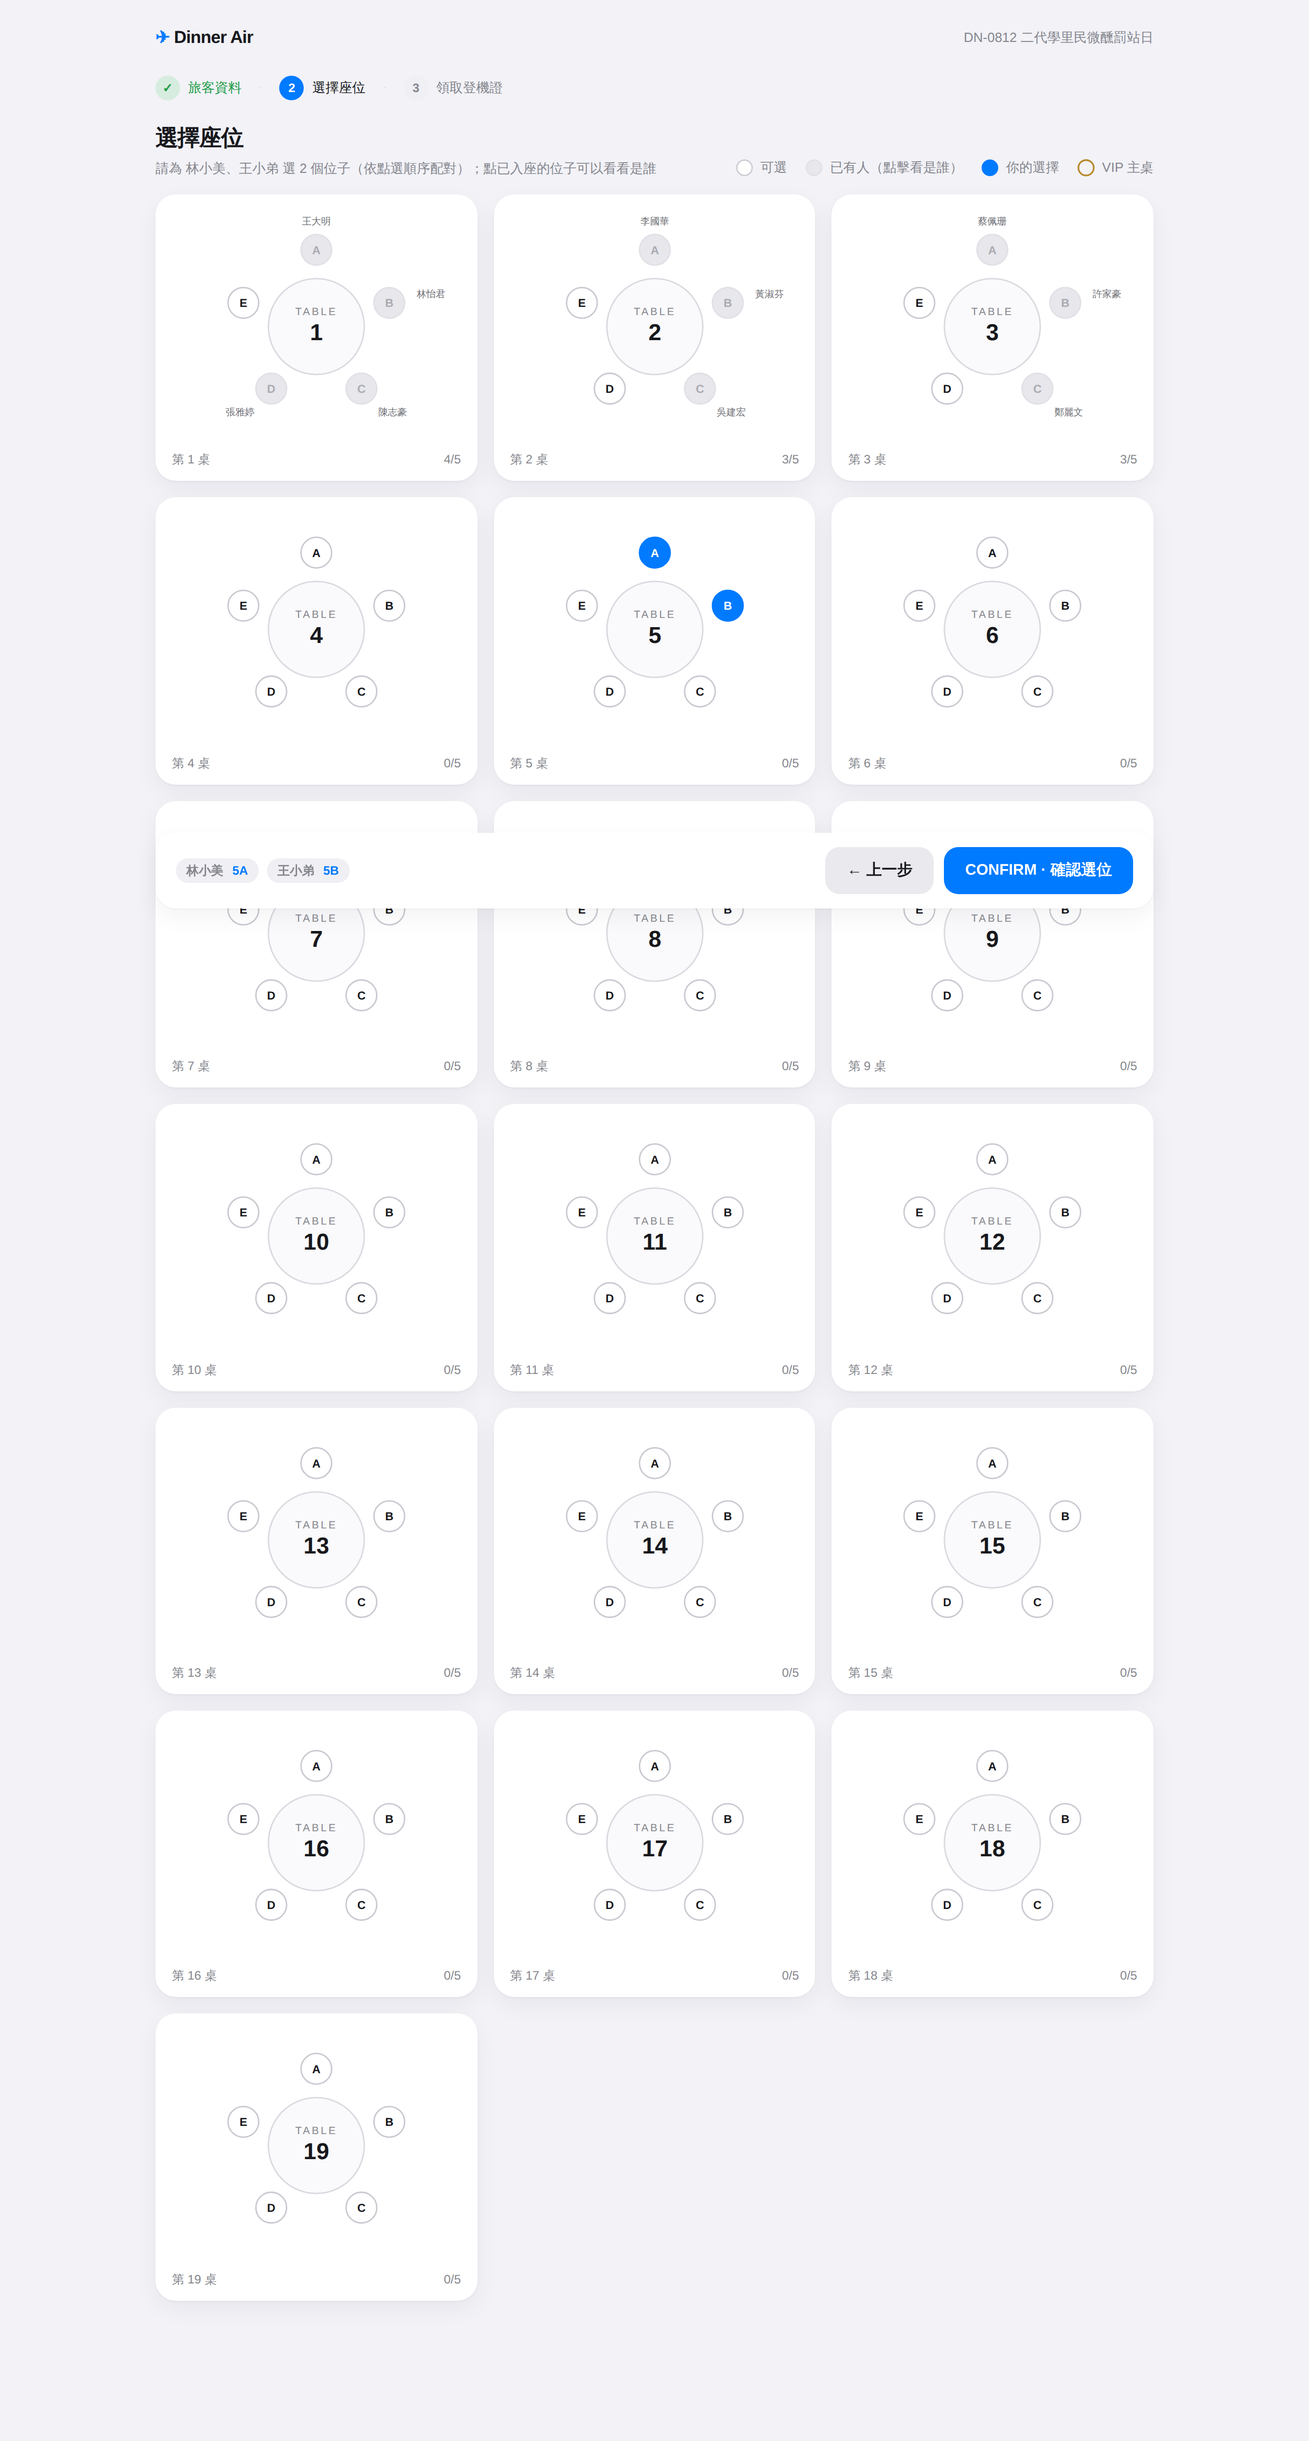
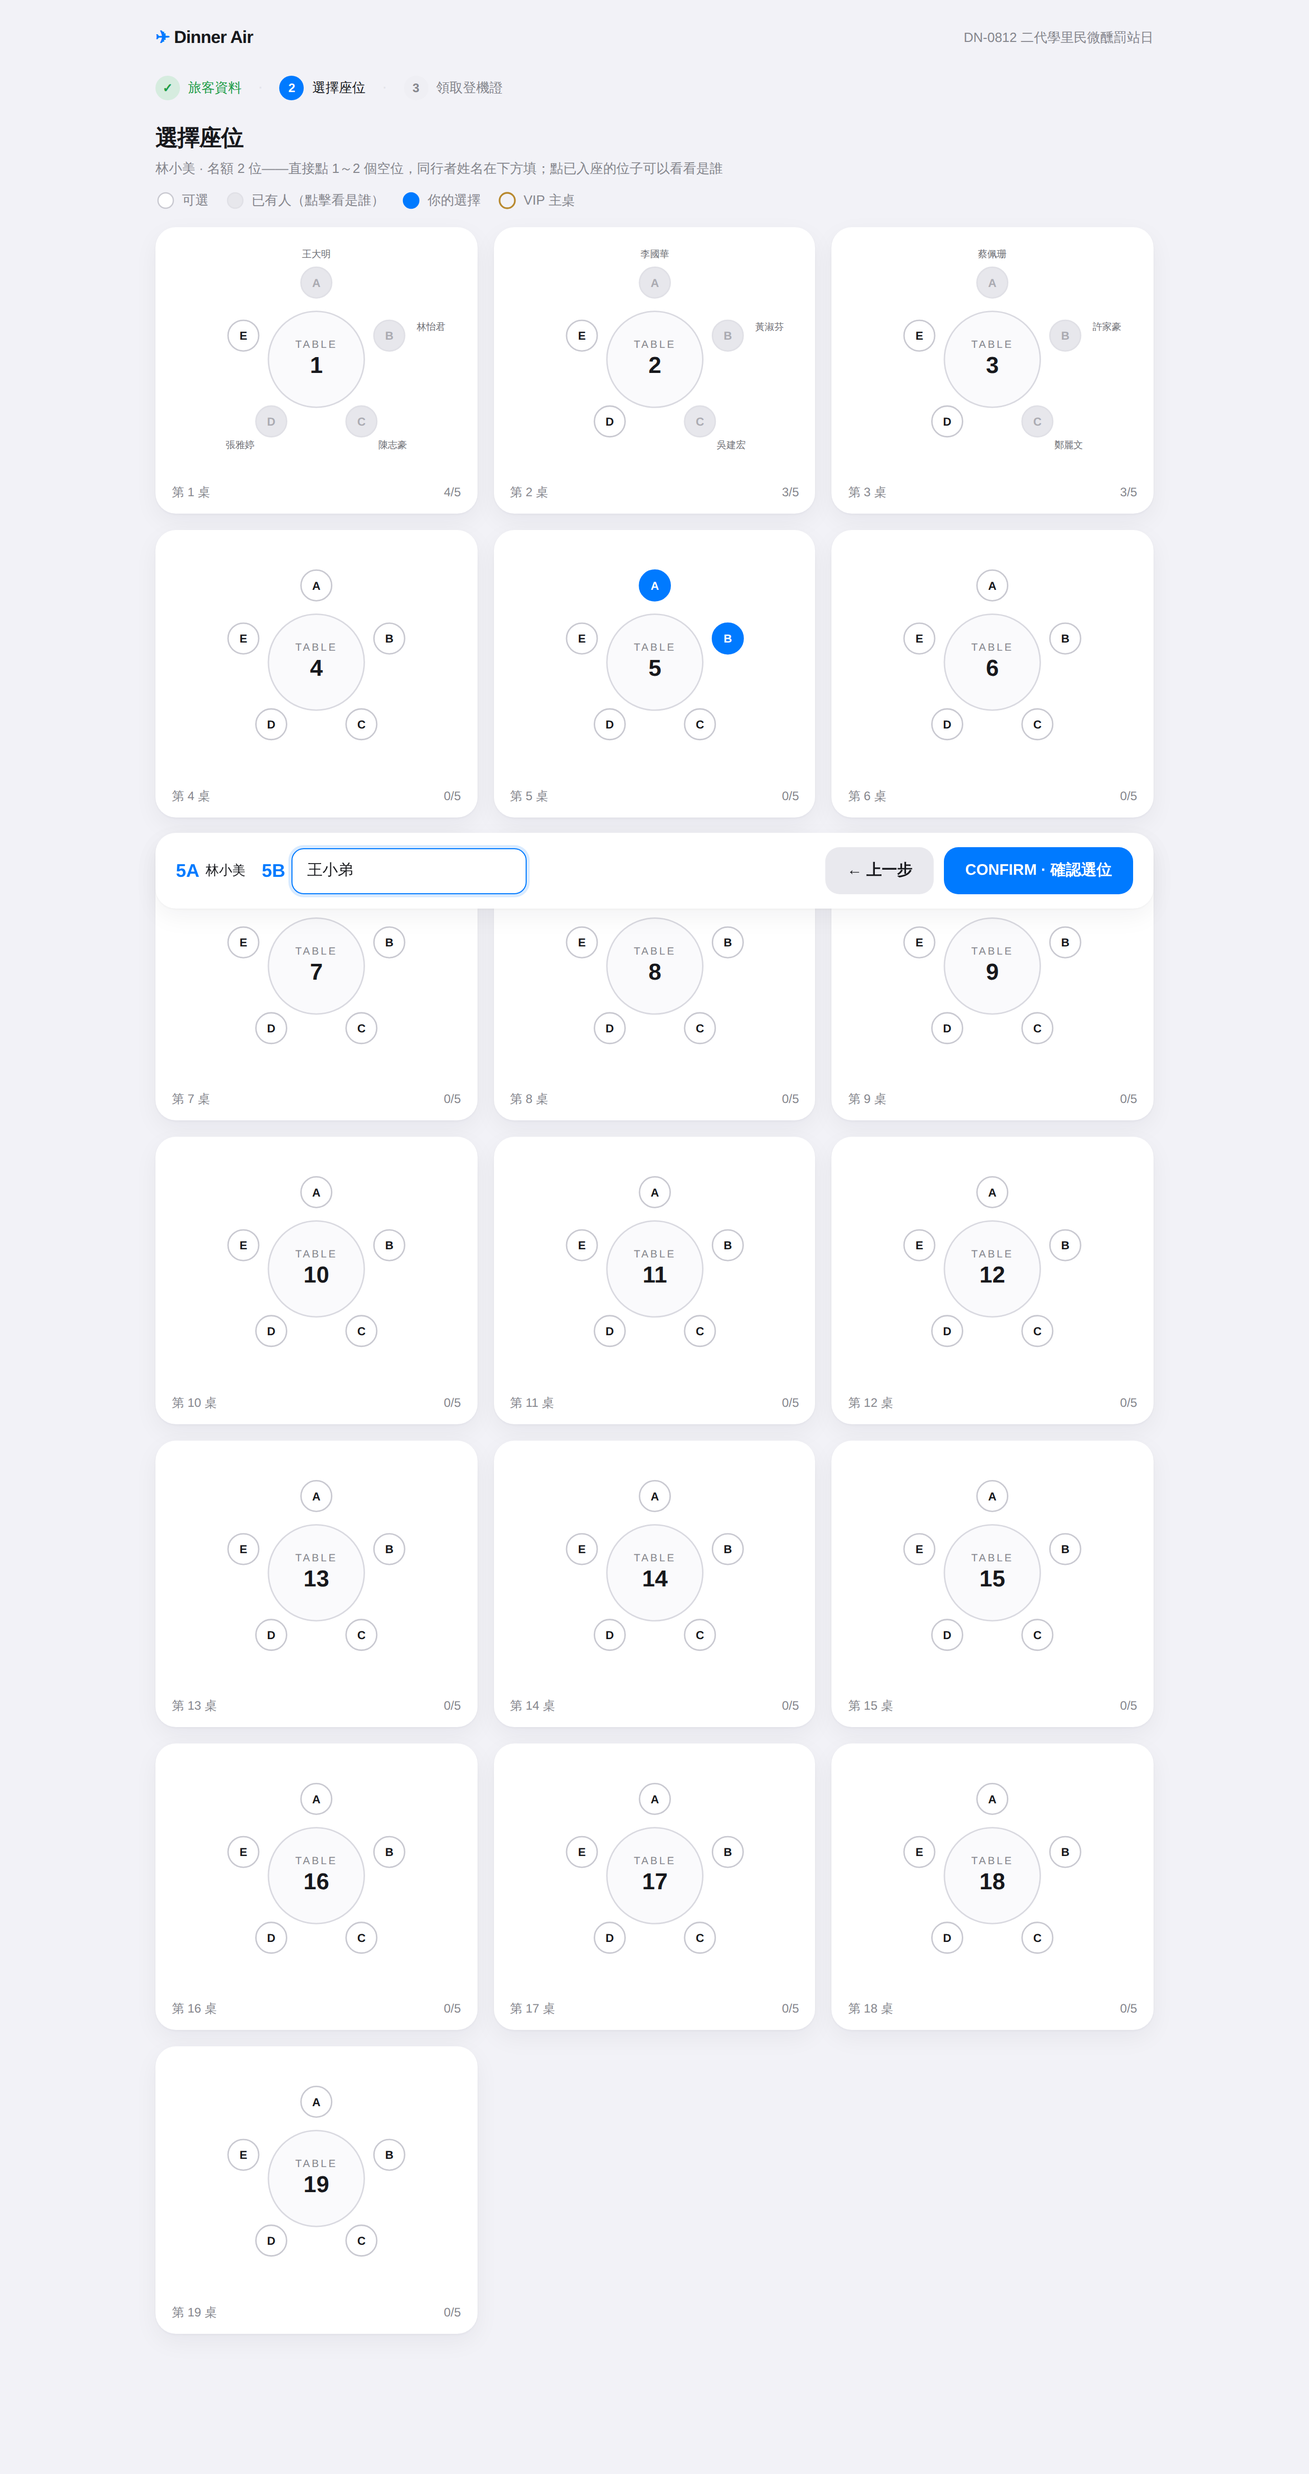
選位頁直接多選：輸入名字後即可一次選滿名額
報名流程再簡化——表單不再問人數與同行者：

- 表單只填姓名/產業/備註，接龍名額多少、選位頁就能直接點幾個位子
  （林小美名額 2 → 直接點 5A、5B）
- 同行者姓名改在選位確認列 inline 填寫，未填完不能送出
- 候補路徑維持單人；名額上限與座位衝突照樣在寫入時二次驗證

Claude-Session: https://claude.ai/code/session_018BfeYKkjSwJMM5e7U3pUqP

diff --git a/src/app/flight/[code]/seat/page.tsx b/src/app/flight/[code]/seat/page.tsx
@@ -11,7 +11,7 @@ import { addGroup, assignSeat, byToken, flightByCode, takenSeats, useDB } from "
 
 /**
  * 選位頁。兩種進場方式：
- * 1. 報名流程第二步——一次為整組人選位（一人一個座位，依點選順序配對）
+ * 1. 報名流程第二步——可直接選 1～名額上限個位子；第 2 位起的同行者姓名在確認列填
  * 2. 已有登機證但還沒座位的人補選位：/flight/XX/seat?pass=<token>
  */
 export default function SeatPage() {
@@ -25,6 +25,8 @@ export default function SeatPage() {
   const pending = usePendingSignup(reseatToken ? undefined : flight?.code);
 
   const [selected, setSelected] = useState<string[]>([]);
+  /** 第 i+2 個座位的同行者姓名（index 0 = 第二個座位） */
+  const [companionNames, setCompanionNames] = useState<string[]>([]);
   const [error, setError] = useState<string | null>(null);
   // 點擊已入座的座位 → 顯示是誰（姓名＋產業）
   const [peek, setPeek] = useState<{ code: string; name: string; industry?: string } | null>(null);
@@ -70,29 +72,43 @@ export default function SeatPage() {
   }
 
   const taken = takenSeats(db, flight.id);
-  const people = reseatAttendee
-    ? [{ name: reseatAttendee.name, industry: reseatAttendee.industry ?? "" }]
-    : (pending?.people ?? []);
-  const need = people.length;
+  const leadName = reseatAttendee?.name ?? pending?.name ?? "";
+  const maxSeats = reseatAttendee ? 1 : Math.max(1, pending?.maxSeats ?? 1);
 
   const toggleSeat = (seatCode: string) => {
     setError(null);
     setSelected((prev) => {
       if (prev.includes(seatCode)) return prev.filter((s) => s !== seatCode);
-      if (prev.length < need) return [...prev, seatCode];
+      if (prev.length < maxSeats) return [...prev, seatCode];
       // 已選滿：換掉最後一個
-      return [...prev.slice(0, need - 1), seatCode];
+      return [...prev.slice(0, maxSeats - 1), seatCode];
     });
   };
 
+  const setCompanionName = (i: number, value: string) => {
+    setCompanionNames((prev) => {
+      const next = [...prev];
+      while (next.length <= i) next.push("");
+      next[i] = value;
+      return next;
+    });
+  };
+
+  const companionsOk = selected.slice(1).every((_, i) => (companionNames[i] ?? "").trim());
+  const canConfirm = selected.length >= 1 && companionsOk;
+
   const confirm = () => {
-    if (selected.length !== need) return;
+    if (!canConfirm) return;
 
     if (pending) {
+      const people = [
+        { name: pending.name, industry: pending.industry },
+        ...selected.slice(1).map((_, i) => ({ name: companionNames[i].trim(), industry: "" })),
+      ];
       const res = addGroup({
         flightId: flight.id,
         inviteId: pending.inviteId,
-        people: pending.people,
+        people,
         note: pending.note,
         seats: selected,
       });
@@ -103,7 +119,7 @@ export default function SeatPage() {
         } else if (res.reason === "quota-exceeded") {
           setError("接龍名額不足（可能剛被使用），請回上一步確認。");
         } else if (res.reason === "not-enough-seats") {
-          setError("剩餘座位不足，請回上一步調整人數。");
+          setError("剩餘座位不足，請減少選位數。");
         } else {
           setError("報名失敗，請回上一步重新開始。");
         }
@@ -134,9 +150,9 @@ export default function SeatPage() {
         <div>
           <h1 className="text-[22px] font-bold tracking-tight">選擇座位</h1>
           <p className="text-sub mt-1 text-[13px]">
-            {need > 1
-              ? `請為 ${people.map((p) => p.name).join("、")} 選 ${need} 個位子（依點選順序配對）`
-              : `${people[0]?.name ?? ""} · 點空位入座`}
+            {maxSeats > 1
+              ? `${leadName} · 名額 ${maxSeats} 位——直接點 1～${maxSeats} 個空位，同行者姓名在下方填`
+              : `${leadName} · 點空位入座`}
             ；點已入座的位子可以看看是誰
           </p>
         </div>
@@ -167,23 +183,35 @@ export default function SeatPage() {
       {/* 底部確認列 */}
       <div className="sticky bottom-3 mt-6">
         <div className="card flex flex-wrap items-center justify-between gap-3 px-5 py-3.5">
-          {need > 1 ? (
-            <div className="flex flex-wrap items-center gap-2">
-              {people.map((p, i) => (
-                <span key={i} className="pill pill-dim text-[13px]">
-                  {p.name}
-                  <span className={`ml-1 font-bold ${selected[i] ? "text-accent" : "text-sub"}`}>
-                    {selected[i] ?? "—"}
-                  </span>
+          <div className="flex min-w-0 flex-wrap items-center gap-x-4 gap-y-2">
+            {selected.length === 0 ? (
+              <div className="flex items-baseline gap-2.5">
+                <span className="text-sub text-[13px] font-medium">座位</span>
+                <span className="text-sub text-[24px] font-extrabold">—</span>
+                {maxSeats > 1 && <span className="text-sub text-[12px]">可選 {maxSeats} 位</span>}
+              </div>
+            ) : (
+              selected.map((s, i) => (
+                <span key={s} className="flex items-center gap-1.5">
+                  <span className="text-accent text-[18px] font-extrabold tabular-nums">{s}</span>
+                  {i === 0 ? (
+                    <span className="text-[13px] font-medium">{leadName}</span>
+                  ) : (
+                    <input
+                      value={companionNames[i - 1] ?? ""}
+                      onChange={(e) => setCompanionName(i - 1, e.target.value)}
+                      placeholder="同行者姓名"
+                      maxLength={30}
+                      className="field-input w-28 px-2.5 py-1.5 text-[13px]"
+                    />
+                  )}
                 </span>
-              ))}
-            </div>
-          ) : (
-            <div className="flex items-baseline gap-2.5">
-              <span className="text-sub text-[13px] font-medium">座位</span>
-              <span className="text-accent text-[24px] font-extrabold tabular-nums">{selected[0] ?? "—"}</span>
-            </div>
-          )}
+              ))
+            )}
+            {selected.length > 0 && selected.length < maxSeats && (
+              <span className="text-sub text-[12px]">還可再選 {maxSeats - selected.length} 位</span>
+            )}
+          </div>
           <div className="flex items-center gap-2.5">
             <Link
               href={pending ? `/flight/${flight.code}/checkin` : `/pass/${reseatToken}`}
@@ -191,7 +219,7 @@ export default function SeatPage() {
             >
               ← 上一步
             </Link>
-            <button onClick={confirm} disabled={selected.length !== need} className="btn btn-primary">
+            <button onClick={confirm} disabled={!canConfirm} className="btn btn-primary">
               CONFIRM · 確認選位
             </button>
           </div>

diff --git a/src/app/flight/[code]/checkin/page.tsx b/src/app/flight/[code]/checkin/page.tsx
@@ -27,8 +27,6 @@ export default function CheckinPage() {
 
   const [name, setName] = useState("");
   const [industry, setIndustry] = useState("");
-  const [count, setCount] = useState(1);
-  const [companions, setCompanions] = useState<{ name: string; industry: string }[]>([]);
   const [note, setNote] = useState("");
   const [error, setError] = useState<string | null>(null);
   const [submitting, setSubmitting] = useState(false);
@@ -74,19 +72,8 @@ export default function CheckinPage() {
   const remaining = invite ? Math.max(0, invite.quota - used) : 0;
   const seatsLeft = Math.max(0, flightCapacity(flight) - confirmedCount);
 
-  // 可報人數上限：接龍模式看名額；開放模式一次最多 4 位
-  const maxParty = inviteMode ? Math.max(1, remaining) : Math.min(4, Math.max(1, isStandby ? 4 : seatsLeft));
-  const effCount = Math.min(count, maxParty);
-
-  const companionAt = (i: number) => companions[i] ?? { name: "", industry: "" };
-  const setCompanion = (i: number, patch: Partial<{ name: string; industry: string }>) => {
-    setCompanions((prev) => {
-      const next = [...prev];
-      while (next.length <= i) next.push({ name: "", industry: "" });
-      next[i] = { ...next[i], ...patch };
-      return next;
-    });
-  };
+  // 選位頁可選的座位數上限：接龍模式看名額；開放模式一次最多 4 位
+  const maxSeats = inviteMode ? Math.max(1, remaining) : Math.min(4, Math.max(1, seatsLeft));
 
   const submit = (e: React.FormEvent) => {
     e.preventDefault();
@@ -102,28 +89,18 @@ export default function CheckinPage() {
         setError("這筆接龍名額已全部使用。如需調整人數，請聯絡主辦人。");
         return;
       }
-      if (effCount > remaining) {
-        setError(`接龍名額只剩 ${remaining} 位，無法報 ${effCount} 位。`);
-        return;
-      }
-    }
-
-    const people = [
-      { name: name.trim(), industry: industry.trim() },
-      ...Array.from({ length: effCount - 1 }, (_, i) => ({
-        name: companionAt(i).name.trim(),
-        industry: companionAt(i).industry.trim(),
-      })),
-    ];
-    if (people.some((p) => !p.name)) {
-      setError("請填寫每一位同行者的姓名。");
-      return;
     }
 
     if (isStandby) {
-      // 已滿：整組建立候補，不經過選位
+      // 已滿：建立候補，不經過選位
       setSubmitting(true);
-      const res = addGroup({ flightId: flight.id, inviteId: invite?.id, people, note, seats: [] });
+      const res = addGroup({
+        flightId: flight.id,
+        inviteId: invite?.id,
+        people: [{ name: name.trim(), industry: industry.trim() }],
+        note,
+        seats: [],
+      });
       if (res.ok) router.push(`/pass/${res.attendees[0].passToken}?new=1`);
       else {
         setSubmitting(false);
@@ -132,7 +109,13 @@ export default function CheckinPage() {
       return;
     }
 
-    writePending(flight.code, { inviteId: invite?.id, people, note: note.trim() });
+    writePending(flight.code, {
+      inviteId: invite?.id,
+      name: name.trim(),
+      industry: industry.trim(),
+      note: note.trim(),
+      maxSeats,
+    });
     router.push(`/flight/${flight.code}/seat`);
   };
 
@@ -193,52 +176,6 @@ export default function CheckinPage() {
             />
           </label>
 
-          {(!inviteMode || (invite && remaining > 0)) && maxParty > 1 && (
-            <div>
-              <span className="text-sub mb-1.5 block text-[13px] font-medium">報名人數（含本人）</span>
-              <div className="flex flex-wrap gap-2">
-                {Array.from({ length: maxParty }, (_, i) => i + 1).map((n) => (
-                  <button
-                    key={n}
-                    type="button"
-                    onClick={() => setCount(n)}
-                    className={`min-w-14 rounded-xl px-4 py-2.5 text-center text-[14px] font-semibold transition ${
-                      effCount === n ? "bg-accent text-white" : "bg-inset text-ink hover:bg-[#e4e4ea]"
-                    }`}
-                  >
-                    {n} 位
-                  </button>
-                ))}
-              </div>
-            </div>
-          )}
-
-          {Array.from({ length: effCount - 1 }, (_, i) => (
-            <div key={i} className="grid grid-cols-2 gap-3">
-              <label className="block">
-                <span className="text-sub mb-1.5 block text-[13px] font-medium">同行者 {i + 1} 姓名 *</span>
-                <input
-                  value={companionAt(i).name}
-                  onChange={(e) => setCompanion(i, { name: e.target.value })}
-                  className="field-input"
-                  placeholder="同行者姓名"
-                  maxLength={30}
-                  required
-                />
-              </label>
-              <label className="block">
-                <span className="text-sub mb-1.5 block text-[13px] font-medium">產業</span>
-                <input
-                  value={companionAt(i).industry}
-                  onChange={(e) => setCompanion(i, { industry: e.target.value })}
-                  className="field-input"
-                  placeholder="產業（選填）"
-                  maxLength={20}
-                />
-              </label>
-            </div>
-          ))}
-
           <label className="block">
             <span className="text-sub mb-1.5 block text-[13px] font-medium">備註（忌口、過敏等）</span>
             <input
@@ -254,12 +191,13 @@ export default function CheckinPage() {
 
           <div className="mt-1 flex flex-col gap-2.5">
             <button type="submit" disabled={!name.trim() || submitting} className="btn btn-primary w-full text-[16px]">
-              {isStandby
-                ? "JOIN STANDBY · 加入候補"
-                : effCount > 1
-                  ? `NEXT · 為 ${effCount} 位選位 →`
-                  : "NEXT · 前往選位 →"}
+              {isStandby ? "JOIN STANDBY · 加入候補" : "NEXT · 前往選位 →"}
             </button>
+            {!isStandby && maxSeats > 1 && (!inviteMode || invite) && (
+              <p className="text-sub text-center text-[12px]">
+                下一頁可直接選 1～{maxSeats} 個位子，同行者姓名選位時再填
+              </p>
+            )}
             <Link href={`/flight/${flight.code}`} className="btn btn-secondary w-full text-[14px]">
               ← 返回
             </Link>

diff --git a/src/components/StepBar.tsx b/src/components/StepBar.tsx
@@ -8,9 +8,12 @@ const pendingKey = (flightCode: string) => `dinner-checkin:pending:${flightCode}
 export interface PendingSignup {
   /** 接龍模式下：這次報名用的名額 id */
   inviteId?: string;
-  /** 這次一起報名的所有人（第一位是主報名者） */
-  people: { name: string; industry: string }[];
+  /** 主報名者 */
+  name: string;
+  industry: string;
   note: string;
+  /** 選位頁最多可選幾個位子（接龍名額或開放模式上限），同行者姓名在選位頁填 */
+  maxSeats: number;
 }
 
 // 「填完資料、還沒選位」的暫存，包成小 external store 讓頁面能純粹地讀
